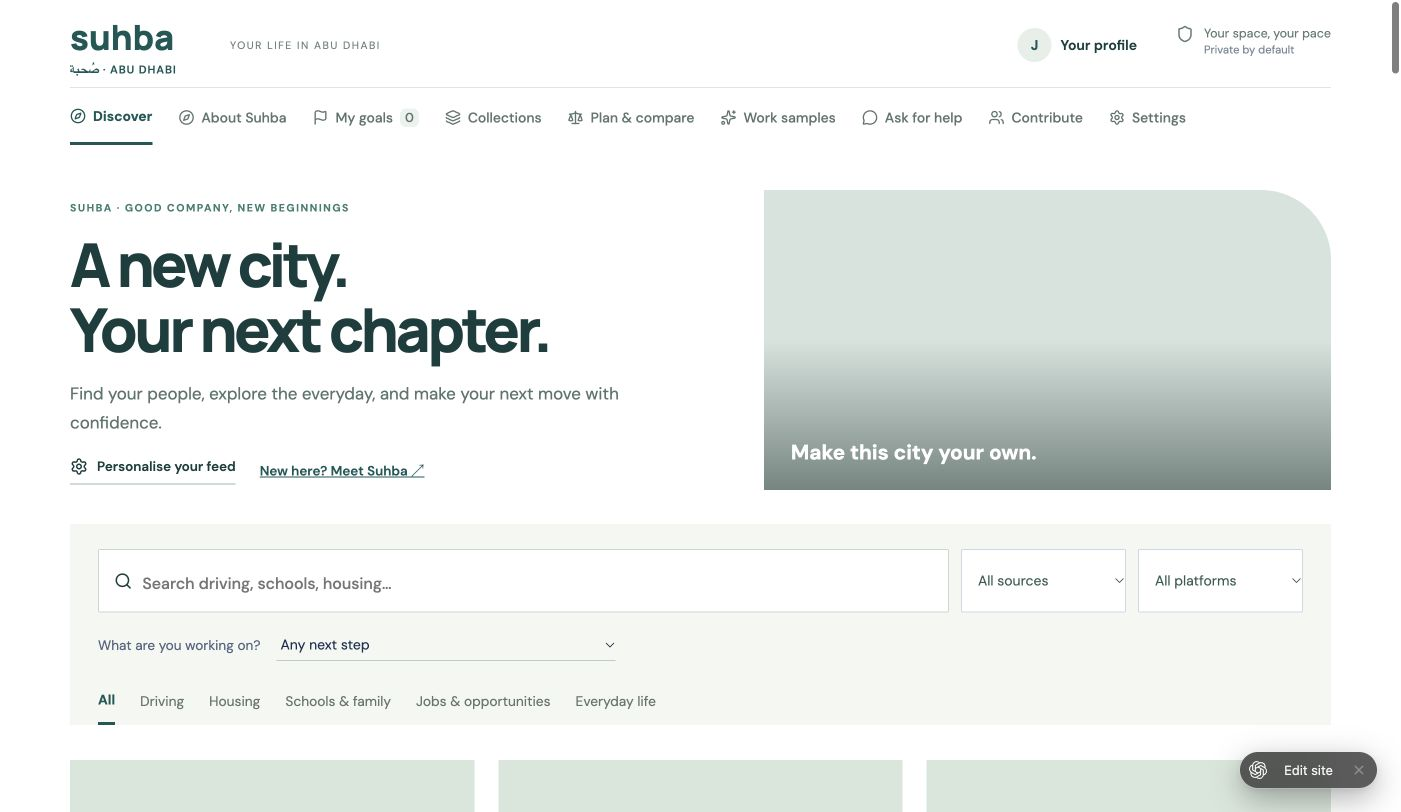
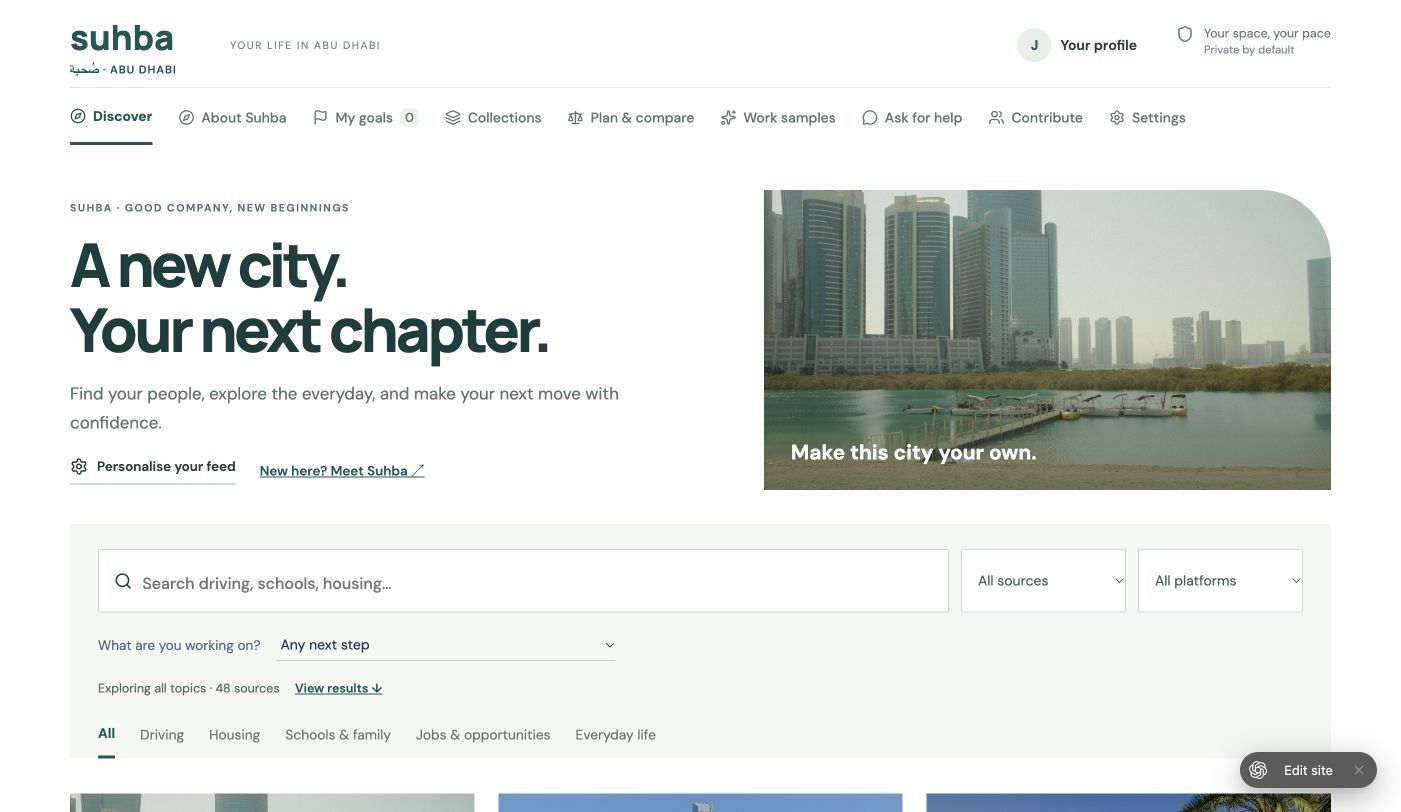
Record live Suhba release and verified hosted discovery evidence

Changed region(s): [[0.5218, 0.2155, 0.9515, 0.6158], [0.0307, 0.8313, 0.9515, 1.0], [0.9822, 0.0, 1.0, 0.0924]]

diff --git a/docs/acceptance-ledger.md b/docs/acceptance-ledger.md
@@ -14,8 +14,8 @@ Status is scoped to observed evidence, not a percentage of completion. Last revi
 | Contribution and integrity | Moderation queue, explicit moderator allowlist, corrections/withdrawal/status flags | Ordinary user denied moderation; approval/correction/withdrawal checks | Stale-version and rejection propagation regressions passed |
 | Export and deletion | Owned-record JSON export, proof HTML, recoverable trash | Local export/private-note ACL and restore | Permanent erasure unsupported, honestly disclosed |
 | Accessible entry | Keyboard dialogs, text fallback, explicit browser voice activation | Prior desktop keyboard/focus and core flows | Mobile/200% zoom and voice permission flow not verified |
-| Editorial redesign | Top navigation, destination photography, editorial source layout, independent identity | Selected tiles show text + outline + result count, bookmark controls toggle, navigation aria-current; desktop/mobile About and Menu checked | About and mobile Menu expose all nine destinations; exact release build and regression run required before publishing |
-| Hosting | Registered existing private Site, Worker/D1/R2 configured | Local built Worker runs | Current Site URL is https://suhba.hub71-hackat-7654.chatgpt.site. Private Sites deployment succeeded 08:40 UTC for e3b674b75c4030d8c011893802404e6b7b78b26f. Owner sign-in and goal save/reload/trash verified. Public mode unavailable in workspace policy; custom/workspace_all only. |
+| Editorial redesign | Top navigation, destination photography, editorial source layout, independent identity | Selected tiles show text + outline + result count, bookmark controls toggle, navigation aria-current; desktop/mobile About and Menu checked | About and mobile Menu expose all nine destinations; TypeScript, planner checks, release build and 49 backend checks passed at 8720004 |
+| Hosting | Registered existing private Site, Worker/D1/R2 configured | Local built Worker runs | Current Site URL is https://suhba.hub71-hackat-7654.chatgpt.site. Private Sites deployment succeeded 09:15 UTC for 87200043782d569289a44088bf55e1b15618c7c3. New origin owner sign-in, four loaded images, Housing selection/count and bookmark save/reload/removal verified. Earlier goal save/reload/trash verified. Public mode unavailable in workspace policy; custom/workspace_all only. |
 | AI | Honest unavailable endpoint | 503 unavailable check | Deferred by user; required plugin disabled by admin, no key configured |
 
-The private integration harness passed 49 checks again on the production build at 08:39 UTC, including review invalidation, stale moderation writes, request-history isolation and deterministic scenario validation. The data-free results are in `tests/integration-results.json`. About/mobile/forms and the preserved Next dependency update passed TypeScript, planner checks, production build and all 49 backend checks at e3b674b. Security patches subsequently built and passed all 49 checks using isolated dynamic ports. The filter feedback/bookmark/mobile changes are verified in the browser; final release checks run as part of publishing. No live third-party communications, purchases or external invitations occurred.
+The private integration harness passed 49 checks again on the production build at 08:39 UTC, including review invalidation, stale moderation writes, request-history isolation and deterministic scenario validation. The data-free results are in `tests/integration-results.json`. About/mobile/forms and the preserved Next dependency update passed TypeScript, planner checks, production build and all 49 backend checks at e3b674b. Security patches subsequently built and passed all 49 checks using isolated dynamic ports. The filter feedback/bookmark/mobile changes passed final release checks and all 49 backend checks at 8720004. The renamed deployed origin was checked in the owner browser: images loaded, selected Housing has five matches and bookmarks persist across reload. No live third-party communications, purchases or external invitations occurred.
